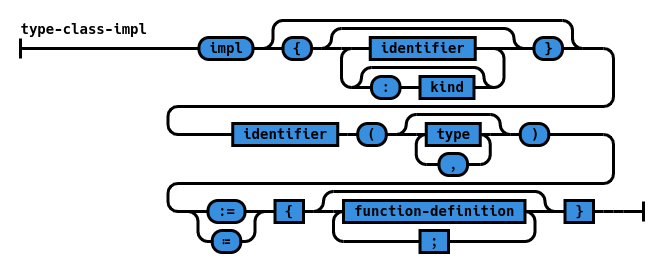
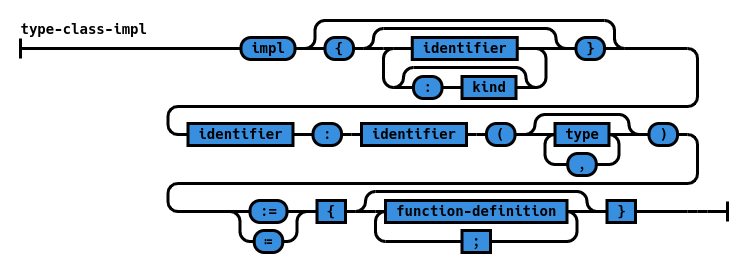
put the name of the implementation in the grammar

diff --git a/railroad-diagrams.py b/railroad-diagrams.py
@@ -1303,6 +1303,8 @@ def zilch_impl():
 		),
 		Sequence(
 			NonTerminal('identifier'),
+			Terminal(':'),
+			NonTerminal('identifier'),
 			Terminal('('),
 			ZeroOrMore(
 				NonTerminal('type'),
